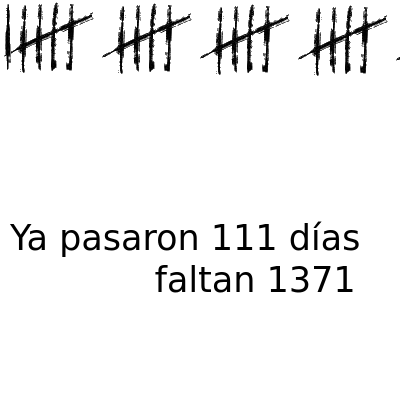
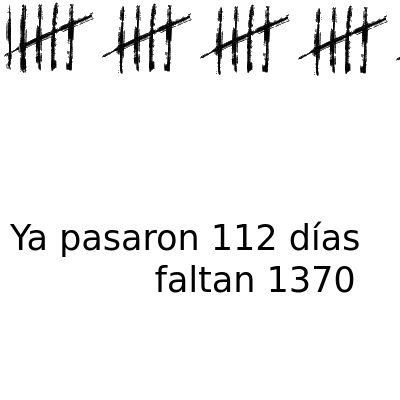
deploy: 28882f26f23b9f53dac6c4991168e610486d0e44

Changed region(s): [[0.0, 0.0, 0.09, 0.18], [0.84, 0.66, 0.9, 0.75], [0.63, 0.54, 0.69, 0.63]]

diff --git a/index.html b/index.html
@@ -3,19 +3,19 @@
   <head>
     <meta charset='utf-8'>
     <meta http-equiv='X-UA-Compatible' content='IE=edge'>
-    <title>Ya pasaron 111 días y faltan 1371</title>
-    <meta name="description" content="Ya pasaron 111 días y faltan 1371">
-    <meta itemprop="name" content="Ya pasaron 111 días y faltan 1371">
-    <meta itemprop="description" content="Ya pasaron 111 días y faltan 1371">
+    <title>Ya pasaron 112 días y faltan 1370</title>
+    <meta name="description" content="Ya pasaron 112 días y faltan 1370">
+    <meta itemprop="name" content="Ya pasaron 112 días y faltan 1370">
+    <meta itemprop="description" content="Ya pasaron 112 días y faltan 1370">
     <meta name="twitter:card" content="summary">
-    <meta name="twitter:title" content="Ya pasaron 111 días y faltan 1371">
-    <meta name="twitter:description" content="Ya pasaron 111 días y faltan 1371">
+    <meta name="twitter:title" content="Ya pasaron 112 días y faltan 1370">
+    <meta name="twitter:description" content="Ya pasaron 112 días y faltan 1370">
     <meta name="twitter:creator" content="@FloriusWasTaken">
     <meta name="twitter:image" content="https://pasaron.meme.ar/capture.png">
-    <meta property="og:title" content="Ya pasaron 111 días y faltan 1371">
-    <meta property="og:description" content="Ya pasaron 111 días y faltan 1371">
+    <meta property="og:title" content="Ya pasaron 112 días y faltan 1370">
+    <meta property="og:description" content="Ya pasaron 112 días y faltan 1370">
     <meta property="og:url" content="https://pasaron.meme.ar">
-    <meta property="og:site_name" content="Ya pasaron 111 días y faltan 1371">
+    <meta property="og:site_name" content="Ya pasaron 112 días y faltan 1370">
     <meta property="og:type" content="website">
     <meta property="og:image" content="https://pasaron.meme.ar/capture.png">
     <meta name="theme-color" content="#dc143c">
@@ -69,18 +69,18 @@
         padding: 0;
       }
     </style>
-    <title>Ya pasaron 111 días y faltan 1371</title>
+    <title>Ya pasaron 112 días y faltan 1370</title>
   </head>
   <body>
     <div id="main">
       <img src="img/5.png"/><img src="img/5.png"/><img src="img/5.png"/><img src="img/5.png"/><img src="img/5.png"/><img src="img/5.png"/><img src="img/5.png"/><img src="img/5.png"/><img src="img/5.png"/><img src="img/5.png"/><img src="img/5.png"/><img src="img/5.png"/><img src="img/5.png"/><img src="img/5.png"/><img src="img/5.png"/><img src="img/5.png"/><img src="img/5.png"/><img src="img/5.png"/><img src="img/5.png"/><img src="img/5.png"/><img src="img/5.png"/><img src="img/5.png"/>
       
-        <img src="img/1.png"/>
+        <img src="img/2.png"/>
       
     </div>
     <footer id="footer">
       <marquee id="marquee" class="is-vertical-align">
-        Ya pasaron 111 días y faltan 1371
+        Ya pasaron 112 días y faltan 1370
       </marquee>
       <ul>
         <li>
